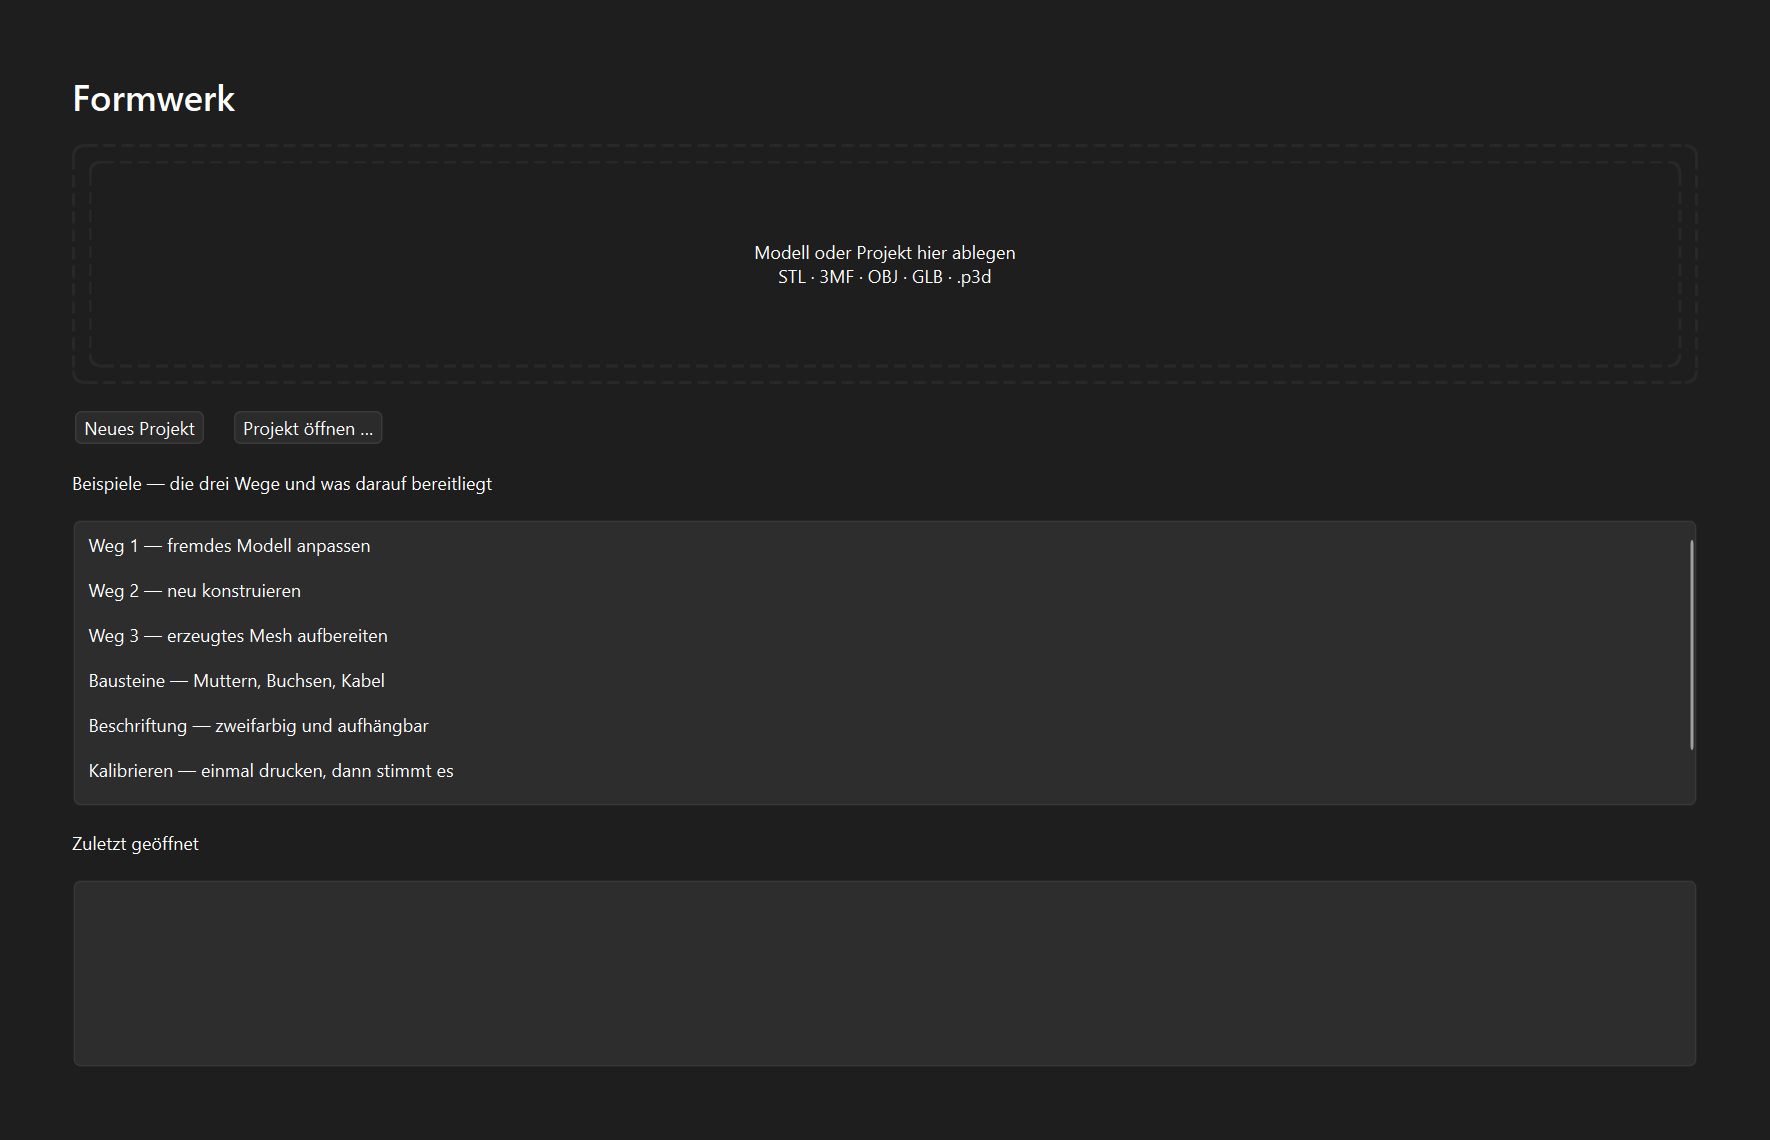
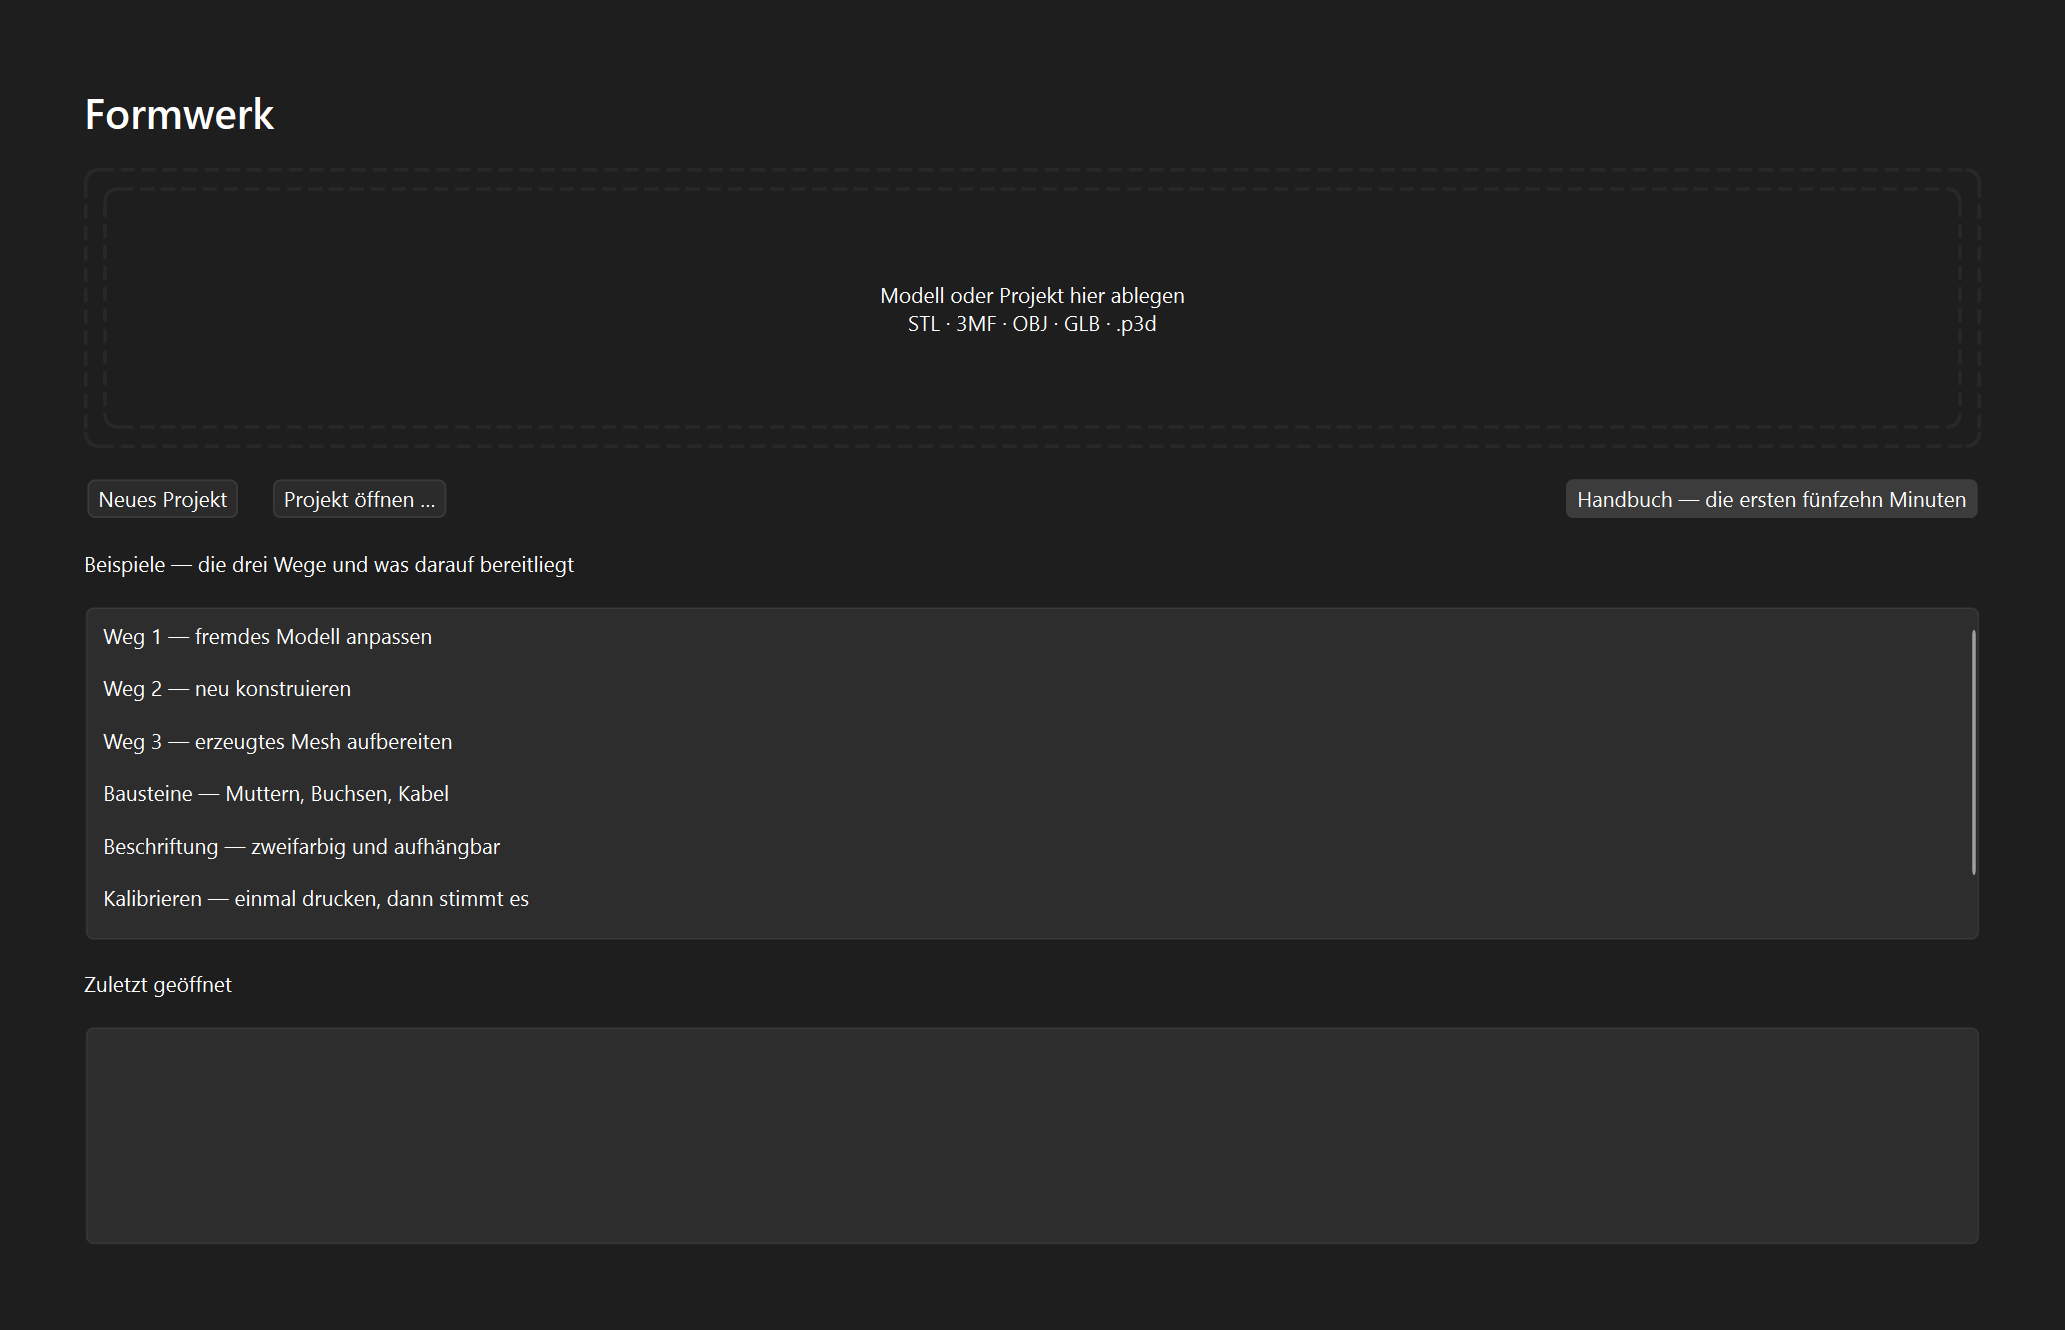
Das Handbuch zeigte eine Oberfläche, die es nicht mehr gibt
Die Bilder zeigten die Siebzehn-Menü-Leiste mit Überlauf und die
ausgegraute Einstellungsgruppe — beides seit der Bedienrunde behoben,
nur die Aufnahmen wussten nichts davon. Neu aufgenommen zeigen sie
die neun Menüs, den umbrechenden Prüfbericht mit Filterzeile, das
Kachelraster, den benannten Dialogknopf und den Handbuchverweis auf
dem Startbildschirm. Dazu spricht make_figures jetzt auch Qts eigene
Knöpfe in der Sprache der Aufnahme — sonst stünde „Cancel" in
Bildern einer Anwendung, die längst „Abbrechen" sagt.

diff --git a/website/handbuch.html b/website/handbuch.html
@@ -173,6 +173,9 @@
 <p>Meldet Überschneidungen und was über den Bauraum hinaussteht.</p>
 <p>Objekte: 0 → -1 · umkehrbar · deterministisch</p>
 <table><thead><tr><th>Parameter</th><th>Einheit</th><th>Vorgabe</th><th>Bereich</th><th>Bedeutung</th></tr></thead><tbody><tr><td><code>clearance</code></td><td>mm</td><td>0.0</td><td>0 … 50</td><td>Mindestabstand</td></tr></tbody></table>
+<h4>Objekt entfernen (<code>delete_object</code>)</h4>
+<p>Nimmt ein Objekt aus der Szene. Der Schritt steht im Verlauf, ein Rückgängig holt es also zurück.</p>
+<p>Objekte: 1 → 0 · umkehrbar · deterministisch · Kürzel <code>Del</code></p>
 <h4>Objekt duplizieren (<code>duplicate_object</code>)</h4>
 <p>Legt weitere Ausfertigungen des Objekts an. Alle bleiben getrennt, und die Stückzahl steht als Zahl im Stapel.</p>
 <p>Objekte: 1 → -1 · umkehrbar · deterministisch · Kürzel <code>Ctrl+D</code></p>

diff --git a/website/en/manual.html b/website/en/manual.html
@@ -173,6 +173,9 @@
 <p>Reports overlaps and anything sticking out of the build volume.</p>
 <p>Objekte: 0 → -1 · umkehrbar · deterministisch</p>
 <table><thead><tr><th>Parameter</th><th>Einheit</th><th>Vorgabe</th><th>Bereich</th><th>Bedeutung</th></tr></thead><tbody><tr><td><code>clearance</code></td><td>mm</td><td>0.0</td><td>0 … 50</td><td>Minimum clearance</td></tr></tbody></table>
+<h4>Remove object (<code>delete_object</code>)</h4>
+<p>Takes an object out of the scene. The step is in the history, so an undo brings it back.</p>
+<p>Objekte: 1 → 0 · umkehrbar · deterministisch · Kürzel <code>Del</code></p>
 <h4>Duplicate object (<code>duplicate_object</code>)</h4>
 <p>Creates further copies of the object. They all stay separate, and the quantity sits in the stack as a number.</p>
 <p>Objekte: 1 → -1 · umkehrbar · deterministisch · Kürzel <code>Ctrl+D</code></p>

diff --git a/tools/make_figures.py b/tools/make_figures.py
@@ -221,12 +221,21 @@ def take_all(app: QApplication, language: str) -> None:
 
 
 def main() -> int:
+    from app.ui.app import install_qt_translations
+
     load_operations()
     app = QApplication.instance() or QApplication([])
     assert isinstance(app, QApplication)
+    qt_translator = None
     for language in SUPPORTED_LANGUAGES:
         install_catalog(language, read_catalog(language))
         set_language(language)
+        # Auch Qt selbst spricht die Sprache der Aufnahme — sonst zeigen die
+        # Bilder „Cancel" auf Dialogen, die in der Anwendung (über
+        # build_application) längst „Abbrechen" sagen.
+        if qt_translator is not None:
+            app.removeTranslator(qt_translator)
+        qt_translator = install_qt_translations(app, language)
         take_all(app, language)
     print("\nFertig. Die Suite prüft nur, dass die Dateien da sind — siehe Modulkopf.")
     return 0
